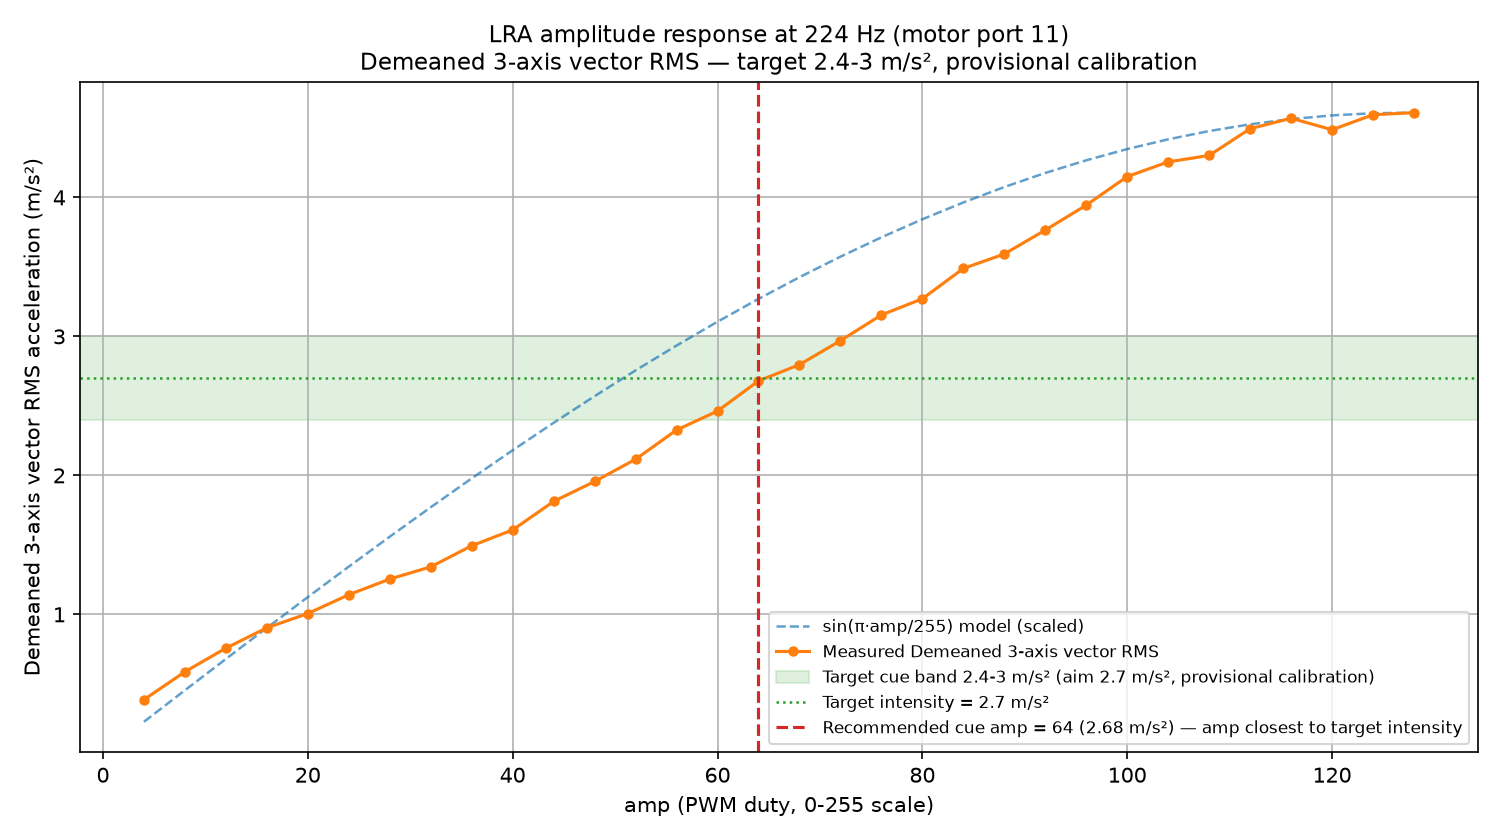
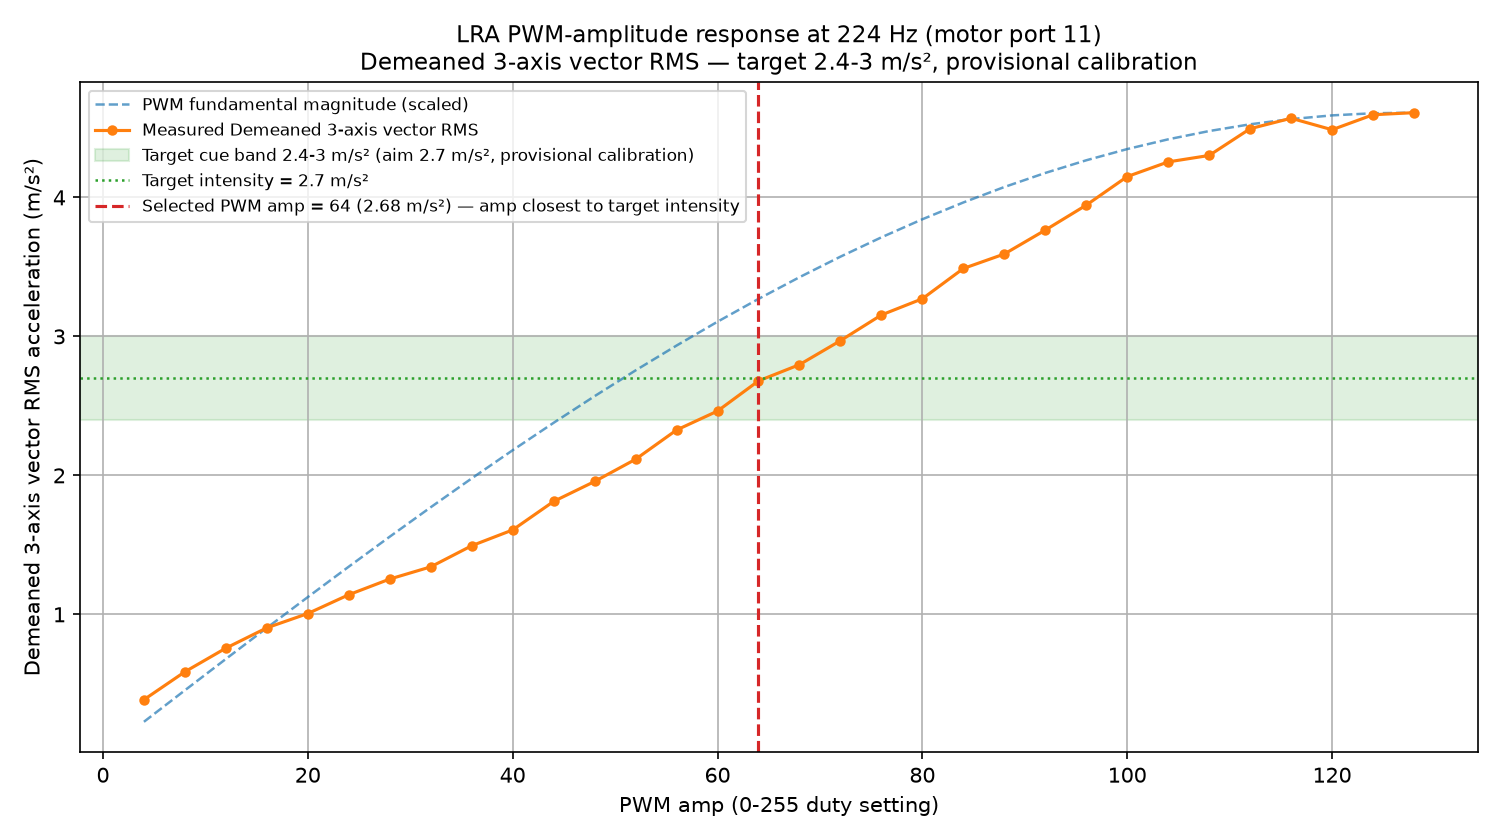
Clarify PWM amplitude calibration plot

diff --git a/main/validation_experiments/lra_resonance_intensity_calibration/lra_amplitude_sweep.py b/main/validation_experiments/lra_resonance_intensity_calibration/lra_amplitude_sweep.py
@@ -440,12 +440,17 @@ def save_plot(path: str, results: List[StepResult],
 
     fig, ax = plt.subplots(figsize=(10, 5.6))
 
-    # Theoretical shape for reference: intensity ~ sin(pi*amp/255),
-    # scaled to the measured maximum.
-    theory = [max_ms2 * math.sin(math.pi * a / 255) / math.sin(math.pi * max(amps) / 255)
-              for a in amps]
-    ax.plot(amps, theory, "--", linewidth=1.2, alpha=0.7,
-            label="sin(π·amp/255) model (scaled)")
+    # The applied voltage is rectangular PWM, not a sinusoid.  This dashed
+    # reference shows only the magnitude envelope of its fundamental at the
+    # drive frequency: |V1| is proportional to sin(pi*D), D = amp/255.
+    # It is scaled to the measured maximum and is not the drive waveform.
+    pwm_fundamental = [
+        max_ms2 * math.sin(math.pi * a / 255)
+        / math.sin(math.pi * max(amps) / 255)
+        for a in amps
+    ]
+    ax.plot(amps, pwm_fundamental, "--", linewidth=1.2, alpha=0.7,
+            label="PWM fundamental magnitude (scaled)")
 
     ax.plot(amps, ms2, "o-", markersize=4,
             label=f"Measured {metric_spec(metric).short_label}")
@@ -460,7 +465,7 @@ def save_plot(path: str, results: List[StepResult],
         recommended_ms2 = get_metric_value(recommended, metric, "ms2")
         ax.axvline(recommended.amp, linestyle="--", linewidth=1.5,
                    color="tab:red",
-                   label=f"Recommended cue amp = {recommended.amp} "
+                   label=f"Selected PWM amp = {recommended.amp} "
                          f"({recommended_ms2:.2f} m/s²) — amp closest to "
                          "target intensity")
     else:
@@ -471,13 +476,13 @@ def save_plot(path: str, results: List[StepResult],
                 color="tab:red",
                 bbox=dict(boxstyle="round", facecolor="white", alpha=0.8))
 
-    ax.set_title(f"LRA amplitude response at {freq_hz} Hz "
+    ax.set_title(f"LRA PWM-amplitude response at {freq_hz} Hz "
                  f"(motor port {motor_index})\n"
                  f"{metric_spec(metric).short_label} — "
                  + (f"target {target.band_label}, {target.status_label}"
                     if target.calibrated else UNCALIBRATED_LABEL),
                  fontsize=11)
-    ax.set_xlabel("amp (PWM duty, 0-255 scale)")
+    ax.set_xlabel("PWM amp (0-255 duty setting)")
     ax.set_ylabel(metric_axis_label(metric))
     ax.legend(fontsize=8)
     ax.grid(True)

diff --git a/main/test-script/test_acceleration_metrics.py b/main/test-script/test_acceleration_metrics.py
@@ -878,7 +878,7 @@ class TestCueTargetBands(unittest.TestCase):
                                 for s in legacy_labels))
             self.assertTrue(any("provisional calibration" in s
                                 for s in vector_labels))
-            self.assertTrue(any("Recommended cue amp = 52" in s
+            self.assertTrue(any("Selected PWM amp = 52" in s
                                 for s in vector_labels), vector_labels)
             self.assertIn("0.4-0.6 m/s²", legacy_title)
             self.assertIn("2.4-3 m/s²", vector_title)
